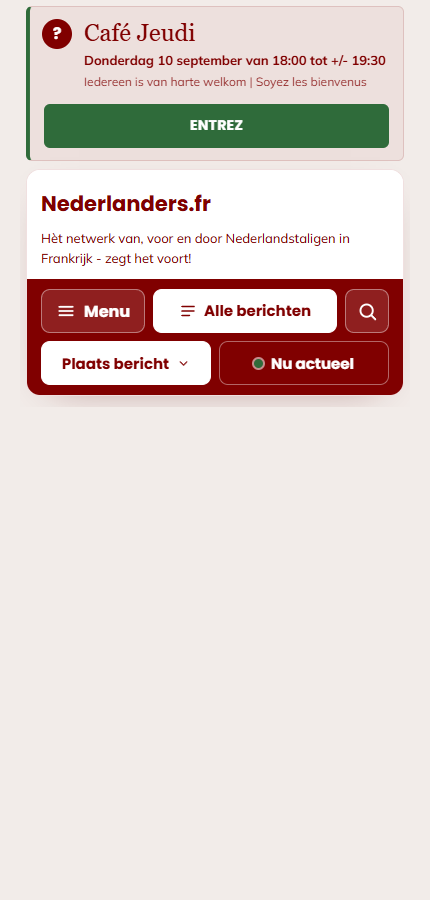
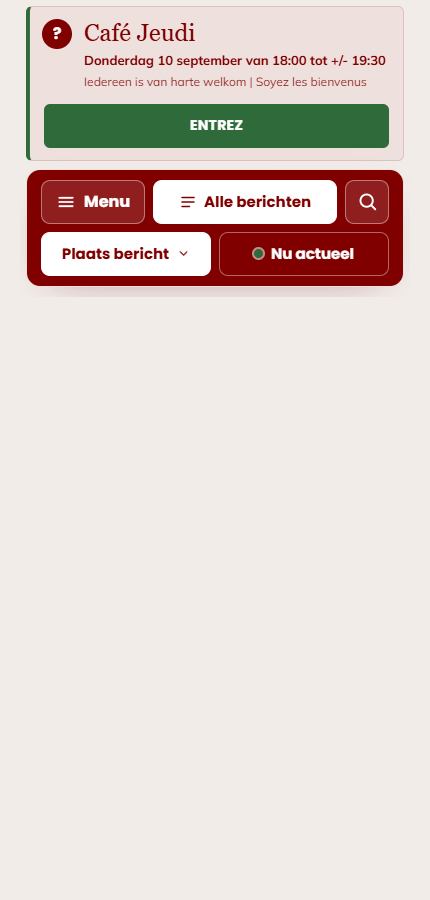
Kaartkop weg: die stond dubbel met de sitekop van NING
Boven de bordeaux strip stond een blok met "Nederlanders.fr" en de slogan
"Het netwerk van, voor en door Nederlandstaligen in Frankrijk - zegt het
voort!". Op nederlanders.fr staat NING's eigen sitekop met precies die naam en
die slogan direct boven dit iframe, dus de bezoeker las het twee keer.

Weggehaald in alle modi: markup, CSS, de mobiele afwijkingen en de
44px-regel die de sitenaam raakbaar maakte. De banner blijft het eerste
element en daaronder komt nu meteen de strip. De kaart houdt border-radius:16px
met overflow:hidden, dus de strip krijgt de bovenste afronding vanzelf mee.

Nagemeten in een echte browser op 955px, 390px en /m: geen zijwaartse uitloop,
elk tikdoel nog steeds minstens 44px, hoogte wordt op elke breedte gemeld. Het
menu is 78px korter geworden op desktop (263 -> 185px dicht) en 110px op
mobiel (403 -> 293px).

LET OP, een gevolg dat de moeite van het weten waard is: op mobiel was de
sitenaam de enige weg naar home, want het huisje in de strip staat daar
verborgen. Die weg loopt nu via de sitekop van NING erboven. Wil je hem ook in
het menu terug, dan is het een kwestie van html.compact .shome weer tonen.

Changed region(s): [[0.0605, 0.1867, 0.9372, 0.4667]]

diff --git a/index.html b/index.html
@@ -19,14 +19,20 @@
   OPBOUW, VAN BOVEN NAAR BENEDEN
     1. Banner (Café Jeudi), volle breedte, alleen als hij aanstaat — komt uit
        /api/banner, opmaak uit lib/banner.js. Beheer op /banner-beheer.
-    2. Kaartkop: "Nederlanders.fr" + slogan.
-    3. Strip: één bordeaux balk met home, Menu, zoeken, Plaats bericht,
-       Nu actueel en (alleen voor de beheerder) het tandwiel.
-    4. Lade: de uitklappers van "Plaats bericht", "Nu actueel", het tandwiel en
+    2. Strip: één bordeaux balk met home, Menu, zoeken, Plaats bericht,
+       Nu actueel en (alleen voor de beheerder) het tandwiel. Dit is het eerste
+       element in de kaart; de afronding komt van de kaart zelf.
+    3. Lade: de uitklappers van "Plaats bericht", "Nu actueel", het tandwiel en
        /m. IN-FLOW, niet position:absolute — een overlay wordt in een iframe
        met hoogte-sync afgeknipt.
-    5. Paneel: vijf kolommen (Lezen, Meedoen, Vinden, Mijn NLFR, Nieuws), op
+    4. Paneel: vijf kolommen (Lezen, Meedoen, Vinden, Mijn NLFR, Nieuws), op
        desktop standaard dicht, open via "Menu"; op mobiel accordeons.
+
+  GEEN KAARTKOP MEER (04-09-2026). Er stond een blok met "Nederlanders.fr" en
+  de slogan boven de strip. Op nederlanders.fr staat NING's eigen sitekop met
+  dezelfde naam en dezelfde slogan direct boven dit iframe, dus dat stond
+  dubbel. Weggehaald in alle modi; de banner is nu het eerste element en
+  daaronder komt meteen de strip.
 
   WAT ER T.O.V. DE VORIGE VERSIE IS VERVALLEN
     Het "Onderwerpen"-uitklapmenu met TOPICS en CTAS, de vijf losse deurknoppen
@@ -69,13 +75,9 @@
   .card { background: #fff; border: 1px solid rgba(128,0,0,.12); border-radius: 16px;
           box-shadow: 0 12px 40px -26px rgba(90,0,0,.55); overflow: hidden; }
 
-  /* ---- Kaartkop ---- */
-  .kop { background: #fff; padding: 14px 18px 12px; }
-  .kop .naam { display: inline-block; font-family: 'Poppins', sans-serif; font-weight: 700;
-               font-size: 24px; line-height: 1.15; color: var(--brand); }
-  .kop .slogan { font-family: 'Mulish', sans-serif; font-size: 13px; color: var(--brand); margin-top: 2px; }
-
-  /* ---- Strip: één bordeaux balk ---- */
+  /* ---- Strip: één bordeaux balk ----
+     Dit is het eerste element in de kaart. De kaart heeft overflow:hidden, dus
+     de strip krijgt de bovenste afronding vanzelf mee. */
   .strip { display: flex; flex-wrap: wrap; align-items: center; gap: 8px;
            min-height: 56px; padding: 10px 14px; background: var(--brand); }
   .sknop { display: inline-flex; align-items: center; justify-content: center; gap: 8px;
@@ -187,8 +189,6 @@
   /* ---- Mobiel (<=700px en html.compact) ---- */
   @media (max-width: 700px) {
     .card { border-radius: 14px; }
-    .kop { padding: 12px 14px 10px; }
-    .kop .naam { font-size: 21px; }
   }
   html.compact .shome { display: none; }
   html.compact .sforum { display: inline-flex; order: 2; flex: 1 1 auto; min-height: 44px; padding: 0 12px;
@@ -229,10 +229,8 @@
   html.compact .zusters { text-align: center; }
   /* Raakvlakken van minstens 44px: op een telefoon mik je anders mis. De
      zusterlinks staan in een lopende zin, dus ze blijven inline — alleen hun
-     tikhoogte gaat omhoog. De sitenaam is op mobiel de enige weg naar home
-     (het huisje staat er niet), dus die moet ook raakbaar zijn. */
+     tikhoogte gaat omhoog. */
   html.compact .zusters a { display: inline-flex; align-items: center; min-height: 44px; padding: 0 4px; }
-  html.compact .kop .naam { display: inline-flex; align-items: center; min-height: 44px; }
 
   /* ---- /m (html.msite): bewust beperkt, zoals /m altijd al was ---- */
   html.msite .paneel { display: none !important; }
@@ -265,11 +263,6 @@
 <div id="alles">
   <div id="bannerhost"></div>
   <div class="card">
-    <div class="kop">
-      <a class="naam" href="https://www.nederlanders.fr/" target="_parent">Nederlanders.fr</a>
-      <div class="slogan">Hèt netwerk van, voor en door Nederlandstaligen in Frankrijk - zegt het voort!</div>
-    </div>
-
     <div class="strip">
       <a class="sknop shome" href="https://www.nederlanders.fr/" target="_parent" title="Home" aria-label="Home"><svg width="22" height="22" viewBox="0 0 24 24" fill="none" stroke="currentColor" stroke-width="1.9" stroke-linecap="round" stroke-linejoin="round"><path d="M3 11 12 4l9 7"/><path d="M5.5 9.5V20h13V9.5"/><path d="M9.75 20v-5.5h4.5V20"/></svg></a>
 
